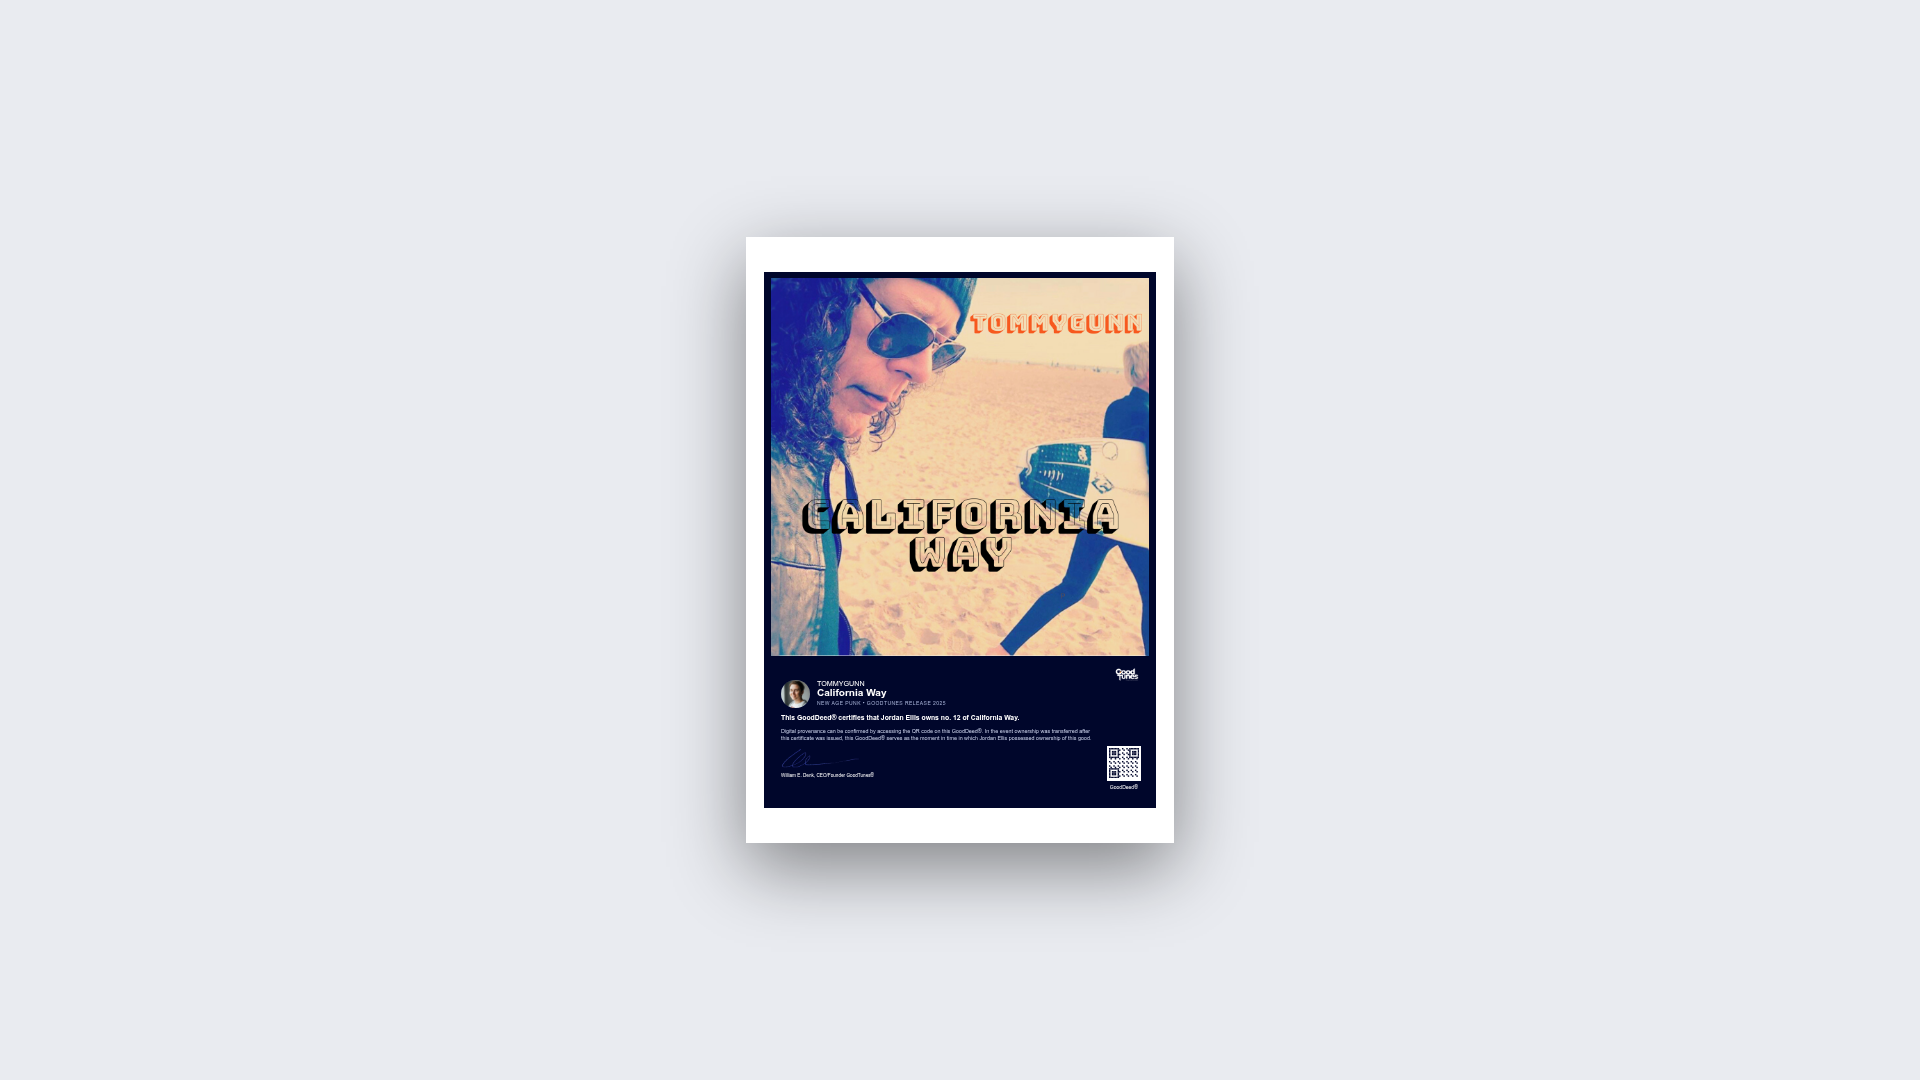
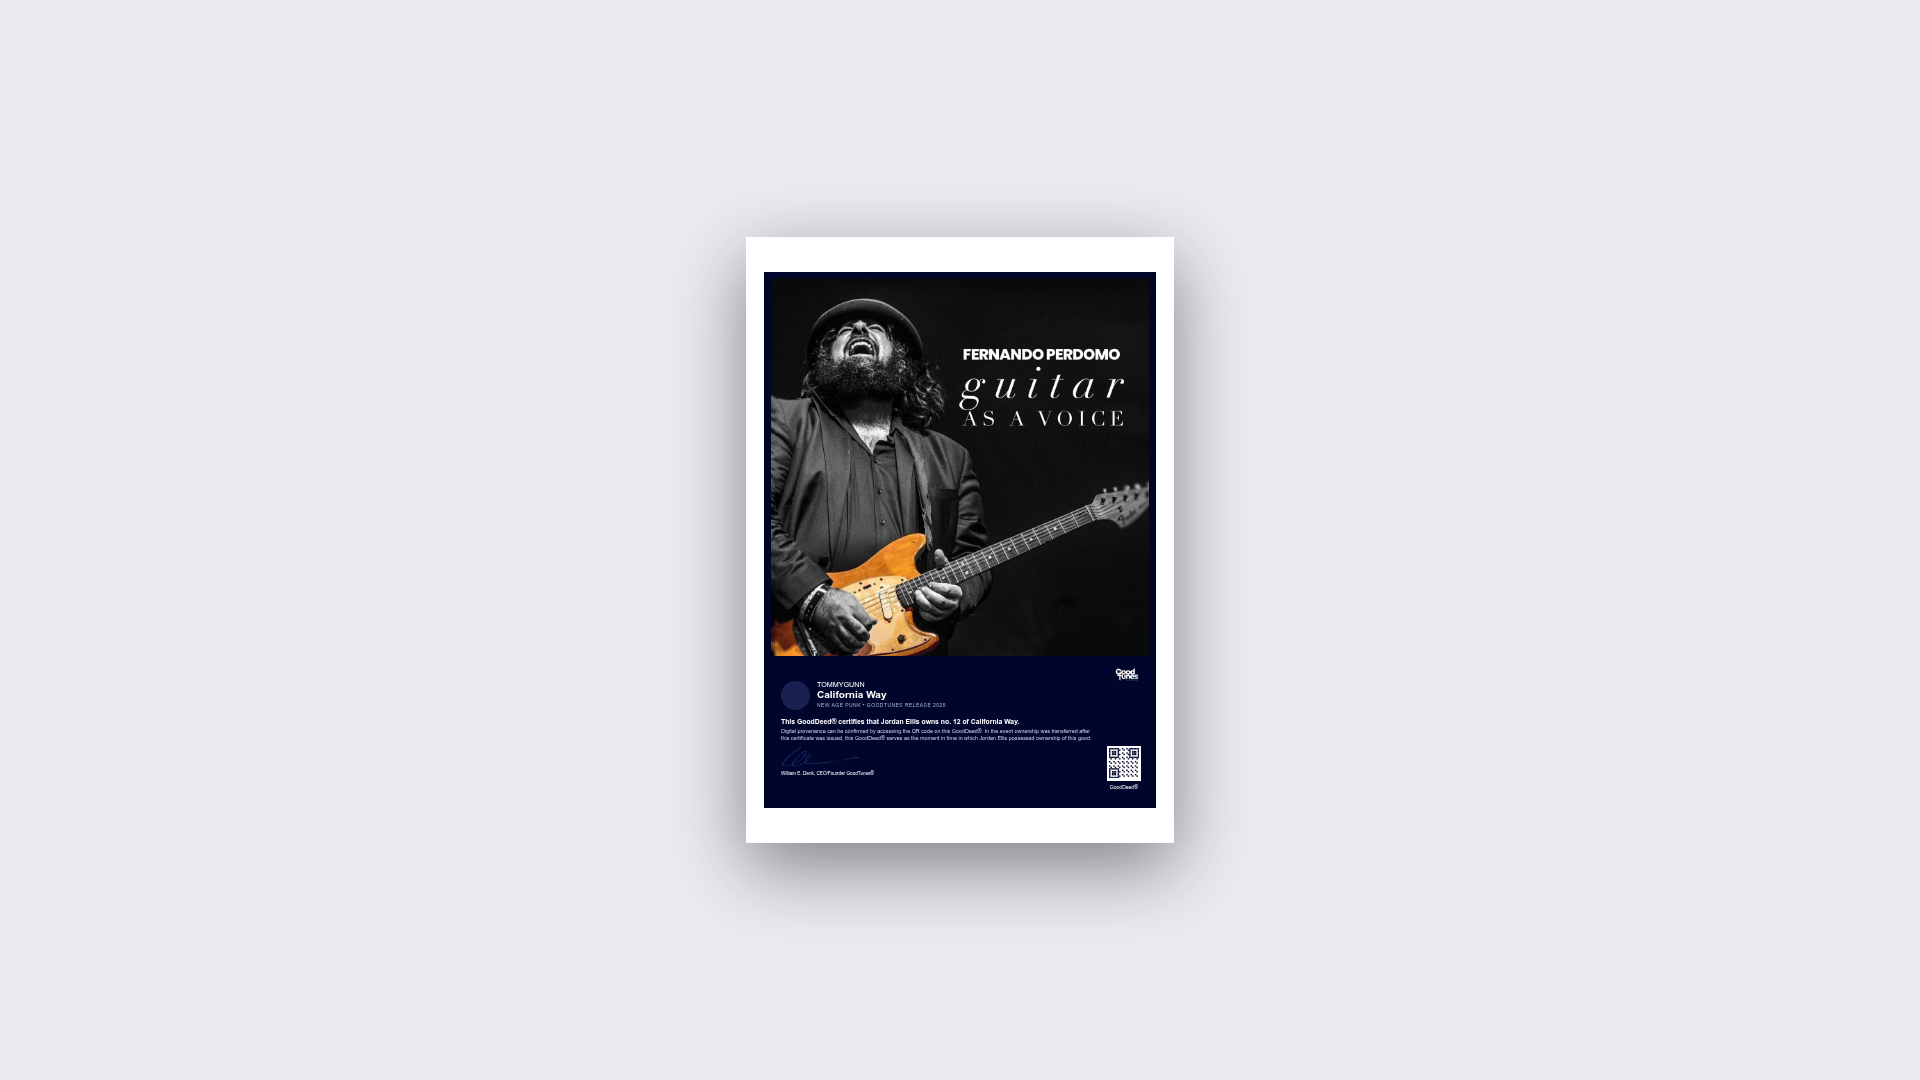
Update certificate mockups to use Fernando's guitar cover
Replace the current certificate cover art with Fernando's guitar image and remove the separate guitar test tile.

Replit-Commit-Author: Agent
Replit-Commit-Session-Id: 05c2a2e8-5b06-4806-a9d5-d257ed0dfe21
Replit-Commit-Checkpoint-Type: full_checkpoint
Replit-Commit-Event-Id: d3483fd4-7b2d-488d-90a4-42b414b0adf6
Replit-Commit-Screenshot-Url: https://storage.googleapis.com/screenshot-production-us-central1/5293185b-8e25-4d4f-b8b2-dc5494b9adc6/05c2a2e8-5b06-4806-a9d5-d257ed0dfe21/S8yGpOE
Replit-Helium-Checkpoint-Created: true

Changed region(s): [[0.375, 0.2444, 0.625, 0.6722], [0.4062, 0.7028, 0.4375, 0.7333]]

diff --git a/artifacts/mockup-sandbox/src/components/mockups/gooddeed-print/LetterCurrent.tsx b/artifacts/mockup-sandbox/src/components/mockups/gooddeed-print/LetterCurrent.tsx
@@ -1,5 +1,7 @@
 import { CertStage } from "./_CertPrint";
 
+const GUITAR = "/__mockup/images/album-guitar-as-a-voice.png";
+
 export function LetterCurrent() {
-  return <CertStage paper="letter" frame="navy" />;
+  return <CertStage paper="letter" frame="navy" art={GUITAR} />;
 }

diff --git a/artifacts/mockup-sandbox/src/components/mockups/gooddeed-print/A4Current.tsx b/artifacts/mockup-sandbox/src/components/mockups/gooddeed-print/A4Current.tsx
@@ -1,5 +1,7 @@
 import { CertStage } from "./_CertPrint";
 
+const GUITAR = "/__mockup/images/album-guitar-as-a-voice.png";
+
 export function A4Current() {
-  return <CertStage paper="a4" frame="navy" />;
+  return <CertStage paper="a4" frame="navy" art={GUITAR} />;
 }
